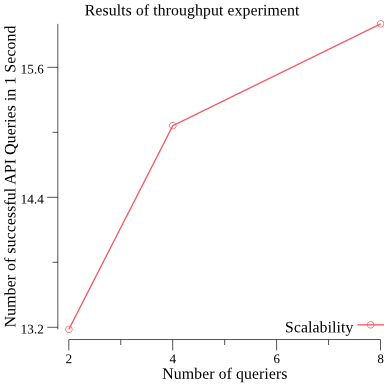
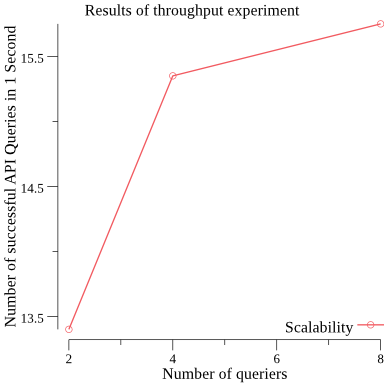
Fixed pathing problems; everything should be consistent now

diff --git a/pkg/benchmarkapi/benchmarkapi_suite_test.go b/pkg/benchmarkapi/benchmarkapi_suite_test.go
@@ -13,9 +13,9 @@ import (
 	"testing"
 	"time"
 
-	. "github.com/nickaashoek/benchmark/pkg/benchmarkplot"
-	. "github.com/nickaashoek/benchmark/pkg/benchmarkreporter"
-	. "github.com/nickaashoek/benchmark/pkg/benchmarktiming"
+	. "github.com/dispatchframework/benchmark/pkg/benchmarkplot"
+	. "github.com/dispatchframework/benchmark/pkg/benchmarkreporter"
+	. "github.com/dispatchframework/benchmark/pkg/benchmarktiming"
 	. "github.com/onsi/ginkgo"
 	. "github.com/onsi/gomega"
 )
@@ -153,17 +153,17 @@ var _ = FDescribe("How many calls can we get through in 1 seconds", func() {
 		var counter int64
 		Flood(&counter, 2)
 		b.RecordValue("2", float64(counter))
-	}, 10)
+	}, 20)
 	Measure("4 queriers", func(b Benchmarker) {
 		var counter int64
 		Flood(&counter, 4)
 		b.RecordValue("4", float64(counter))
-	}, 10)
+	}, 20)
 	Measure("8 queriers", func(b Benchmarker) {
 		var counter int64
 		Flood(&counter, 8)
 		b.RecordValue("8", float64(counter))
-	}, 10)
+	}, 20)
 
 })
 

diff --git a/pkg/benchmarkscale/benchmarkscale_suite_test.go b/pkg/benchmarkscale/benchmarkscale_suite_test.go
@@ -10,9 +10,9 @@ import (
 	"testing"
 	"time"
 
-	. "github.com/nickaashoek/benchmark/pkg/benchmarkplot"
-	. "github.com/nickaashoek/benchmark/pkg/benchmarkreporter"
-	. "github.com/nickaashoek/benchmark/pkg/benchmarktiming"
+	. "github.com/dispatchframework/benchmark/pkg/benchmarkplot"
+	. "github.com/dispatchframework/benchmark/pkg/benchmarkreporter"
+	. "github.com/dispatchframework/benchmark/pkg/benchmarktiming"
 	. "github.com/onsi/ginkgo"
 	. "github.com/onsi/gomega"
 )

diff --git a/pkg/benchmarktiming/benchmarktiming_suite_test.go b/pkg/benchmarktiming/benchmarktiming_suite_test.go
@@ -9,8 +9,8 @@ import (
 	"testing"
 	"time"
 
-	. "github.com/nickaashoek/benchmark/pkg/benchmarkreporter"
-	. "github.com/nickaashoek/benchmark/pkg/benchmarktiming"
+	. "github.com/dispatchframework/benchmark/pkg/benchmarkreporter"
+	. "github.com/dispatchframework/benchmark/pkg/benchmarktiming"
 	. "github.com/onsi/ginkgo"
 	. "github.com/onsi/gomega"
 )
